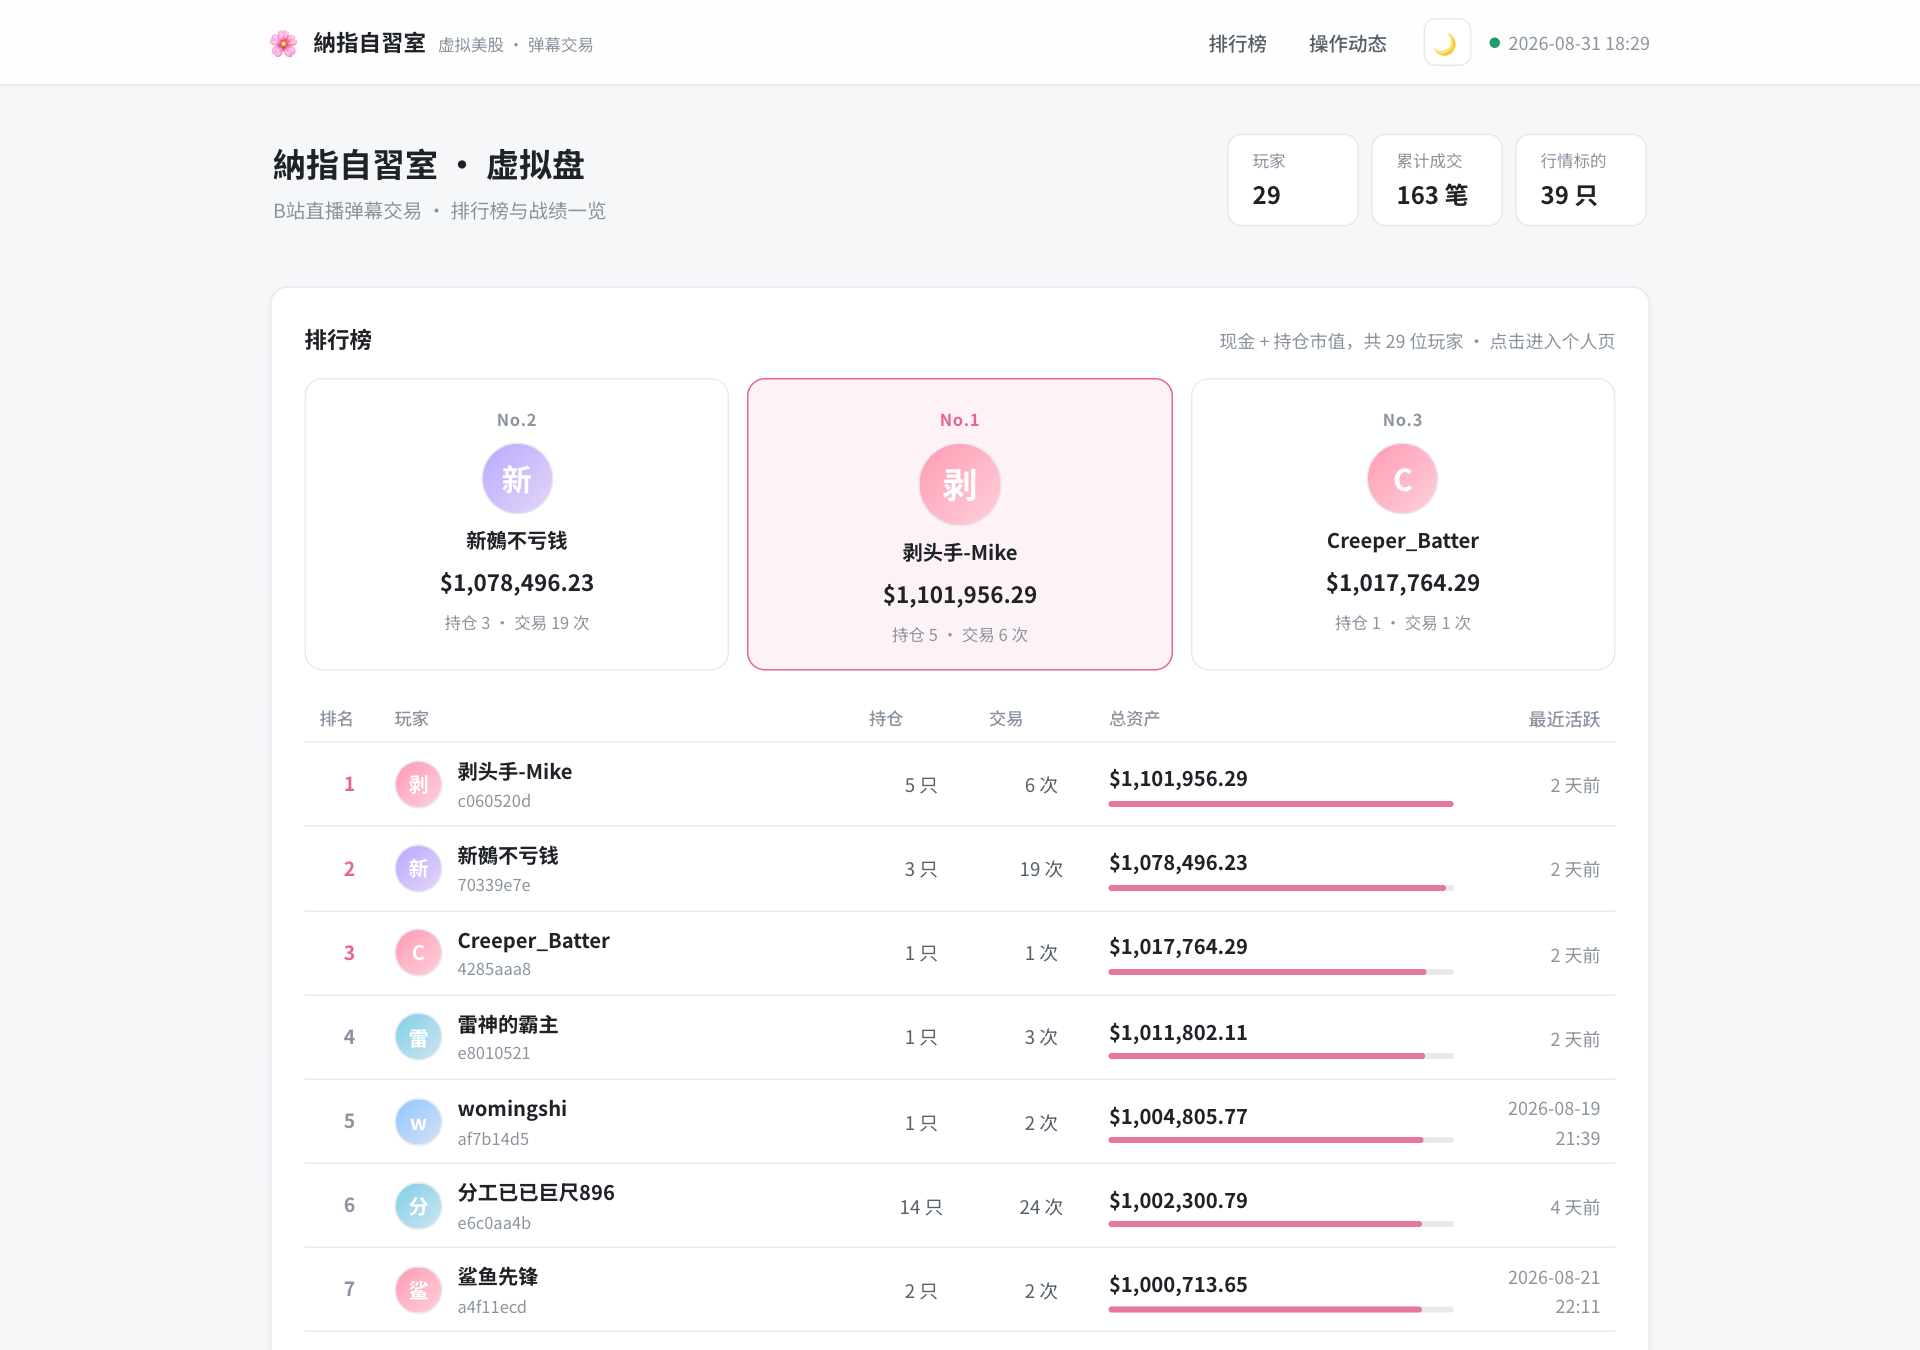
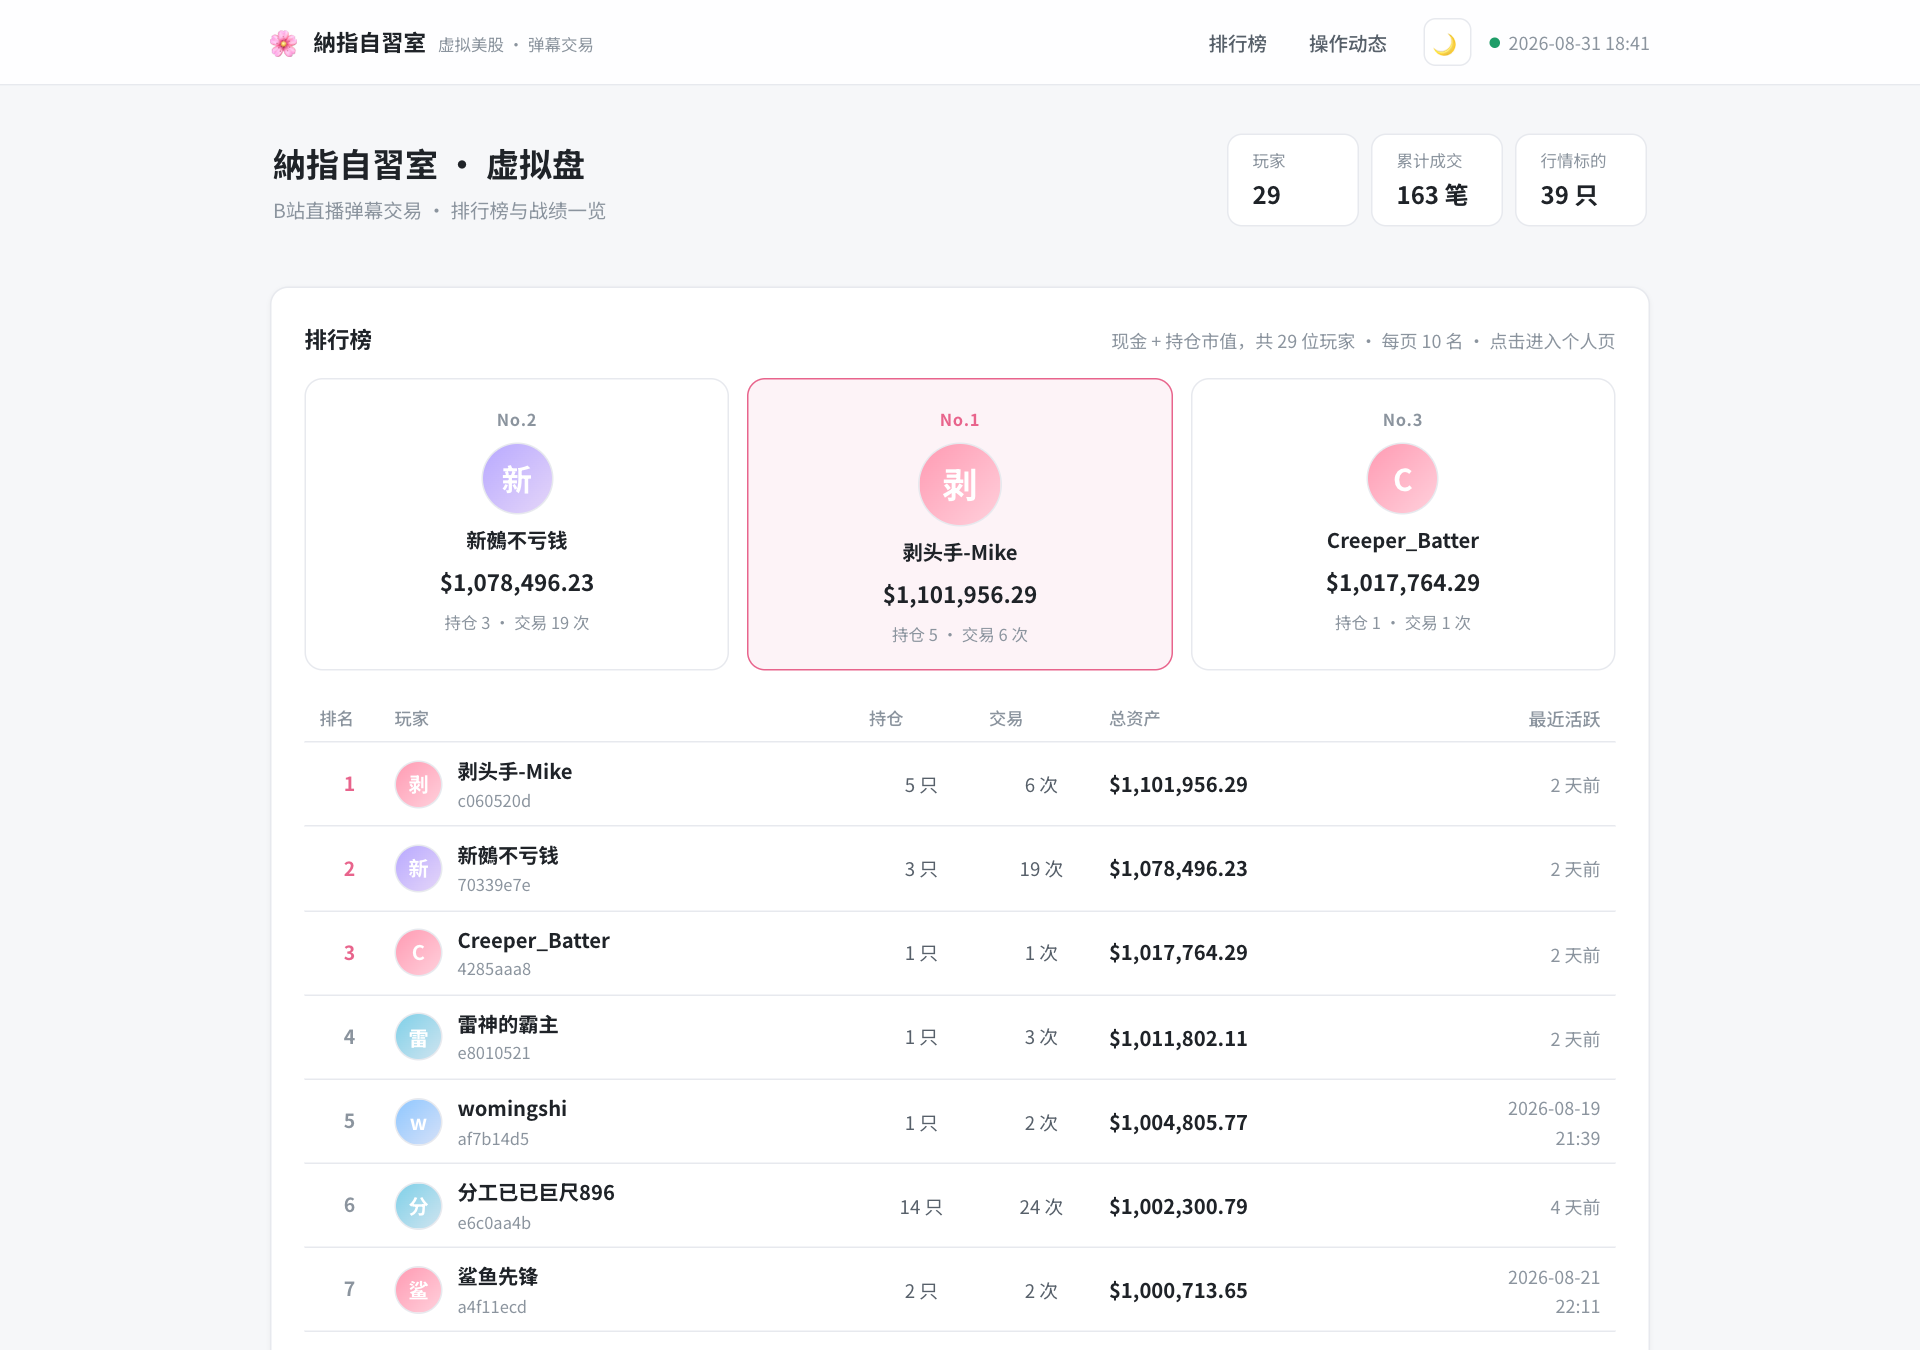
chore(data): update web snapshot 2026-08-31 18:56:20

Changed region(s): [[0.5625, 0.56, 0.75, 0.9956], [0.5938, 0.2489, 0.75, 0.28]]

diff --git a/src/pages/Home.jsx b/src/pages/Home.jsx
@@ -1,4 +1,4 @@
-import { useEffect, useMemo, useRef, useState } from 'react'
+import { useEffect, useRef, useState } from 'react'
 import { Link, useLocation } from 'react-router-dom'
 import { loadHome } from '../api.js'
 import { fmtDate, fmtInt, fmtMoney, fmtQty, timeAgo } from '../format.js'
@@ -9,6 +9,7 @@ import { Empty, Loading } from '../components/State.jsx'
 
 const REFRESH_MS = 60_000 // 与 vercel.json 的 data 缓存策略一致
 const FEED_PAGE = 40
+const RANK_PAGE_SIZE = 10 // 排行榜每页条数
 
 function StatChip({ label, value }) {
   return (
@@ -53,8 +54,7 @@ function Podium({ top }) {
 }
 
 /* 排行榜行 */
-function RankRow({ u, maxTotal }) {
-  const pct = maxTotal > 0 ? (u.total / maxTotal) * 100 : 0
+function RankRow({ u }) {
   return (
     <Link to={`/player/${u.open_id}`} className="rank-row">
       <span className={`rank-no rank-no-${Math.min(u.rank, 4)}`}>{u.rank}</span>
@@ -69,12 +69,45 @@ function RankRow({ u, maxTotal }) {
       <span className="rank-stat rank-hide-md">{u.trade_count} 次</span>
       <span className="rank-total">
         <span className="rank-total-num">{fmtMoney(u.total)}</span>
-        <span className="rank-bar">
-          <span className="rank-bar-fill" style={{ width: `${Math.max(3, pct)}%` }} />
-        </span>
       </span>
       <span className="rank-stat rank-time">{timeAgo(u.last_active_at)}</span>
     </Link>
+  )
+}
+
+/* 分页控件 */
+function Pagination({ page, maxPage, onChange }) {
+  if (maxPage <= 1) return null
+  const pages = Array.from({ length: maxPage }, (_, i) => i + 1)
+  return (
+    <div className="pagination">
+      <button
+        type="button"
+        className="page-btn"
+        disabled={page === 1}
+        onClick={() => onChange(page - 1)}
+      >
+        ‹ 上一页
+      </button>
+      {pages.map((n) => (
+        <button
+          key={n}
+          type="button"
+          className={`page-btn ${n === page ? 'page-btn-active' : ''}`}
+          onClick={() => onChange(n)}
+        >
+          {n}
+        </button>
+      ))}
+      <button
+        type="button"
+        className="page-btn"
+        disabled={page === maxPage}
+        onClick={() => onChange(page + 1)}
+      >
+        下一页 ›
+      </button>
+    </div>
   )
 }
 
@@ -134,6 +167,7 @@ function FeedItem({ f }) {
 export default function Home() {
   const [state, setState] = useState({ loading: true, error: null, meta: null, leaderboard: [], feed: [] })
   const [feedCount, setFeedCount] = useState(FEED_PAGE)
+  const [rankPage, setRankPage] = useState(1)
   const location = useLocation()
   const scrollTarget = location.state?.scrollTo
   const didScroll = useRef(false)
@@ -166,7 +200,9 @@ export default function Home() {
 
   const { meta, leaderboard, feed, loading, error } = state
   const top = leaderboard.slice(0, 3)
-  const maxTotal = useMemo(() => Math.max(...leaderboard.map((u) => u.total), 1), [leaderboard])
+  const maxRankPage = Math.max(1, Math.ceil(leaderboard.length / RANK_PAGE_SIZE))
+  const curRankPage = Math.min(rankPage, maxRankPage)
+  const pageRows = leaderboard.slice((curRankPage - 1) * RANK_PAGE_SIZE, curRankPage * RANK_PAGE_SIZE)
   const visibleFeed = feed.slice(0, feedCount)
   const stats = meta?.stats || {}
 
@@ -195,7 +231,7 @@ export default function Home() {
       <section className="section card" id="rank">
         <SectionTitle
           title="排行榜"
-          sub={`现金 + 持仓市值，共 ${fmtInt(leaderboard.length)} 位玩家 · 点击进入个人页`}
+          sub={`现金 + 持仓市值，共 ${fmtInt(leaderboard.length)} 位玩家 · 每页 ${RANK_PAGE_SIZE} 名 · 点击进入个人页`}
         />
         {top.length > 0 ? <Podium top={top} /> : null}
         <div className="rank-table">
@@ -207,11 +243,12 @@ export default function Home() {
             <span>总资产</span>
             <span className="rank-time">最近活跃</span>
           </div>
-          {leaderboard.map((u) => (
-            <RankRow key={u.open_id} u={u} maxTotal={maxTotal} />
+          {pageRows.map((u) => (
+            <RankRow key={u.open_id} u={u} />
           ))}
           {leaderboard.length === 0 ? <Empty emoji="🍵" title="还没有玩家" desc="开播后观众发 !buy 即可上榜" /> : null}
         </div>
+        <Pagination page={curRankPage} maxPage={maxRankPage} onChange={setRankPage} />
       </section>
 
       {/* 操作动态 */}

diff --git a/src/styles.css b/src/styles.css
@@ -598,27 +598,55 @@ button {
   font-variant-numeric: tabular-nums;
 }
 
-.rank-bar {
-  height: 4px;
-  background: var(--border);
-  border-radius: 999px;
-  overflow: hidden;
-}
-
-.rank-bar-fill {
-  display: block;
-  height: 100%;
-  background: var(--accent);
-  opacity: 0.85;
-  border-radius: 999px;
-  transition: width 0.5s ease;
-}
-
 .rank-time {
   font-size: 12px;
   color: var(--text-3);
   text-align: right;
   font-variant-numeric: tabular-nums;
+}
+
+/* 分页控件 */
+.pagination {
+  display: flex;
+  align-items: center;
+  justify-content: center;
+  gap: 6px;
+  margin-top: 16px;
+  flex-wrap: wrap;
+}
+
+.page-btn {
+  min-width: 32px;
+  height: 32px;
+  padding: 0 10px;
+  background: var(--surface);
+  border: 1px solid var(--border);
+  border-radius: 8px;
+  font-size: 13px;
+  color: var(--text-2);
+  font-weight: 500;
+  transition: border-color 0.15s, color 0.15s, background 0.15s;
+}
+
+.page-btn:hover:not(:disabled) {
+  border-color: var(--accent);
+  color: var(--accent);
+}
+
+.page-btn:disabled {
+  opacity: 0.45;
+  cursor: not-allowed;
+}
+
+.page-btn-active {
+  background: var(--accent);
+  border-color: var(--accent);
+  color: #fff;
+  font-weight: 600;
+}
+
+.page-btn-active:hover:not(:disabled) {
+  color: #fff;
 }
 
 /* --------------------------------------------------------------------------

diff --git a/README.md b/README.md
@@ -13,7 +13,7 @@
 
 ## ✨ 特性
 
-- 排行榜：现金 + 持仓市值，前三名领奖台，点击任意玩家进入个人页
+- 排行榜：现金 + 持仓市值，前三名领奖台，10 名一页翻页，点击任意玩家进入个人页
 - 操作动态：全场合计成交 / 拒绝 / 礼物，每 60 秒自动刷新
 - 个人页：当前持仓（现价 / 浮动盈亏 / 盈亏率）+ 全部历史操作 + 礼物入账
 - 计价统一 `$`，涨绿跌红
